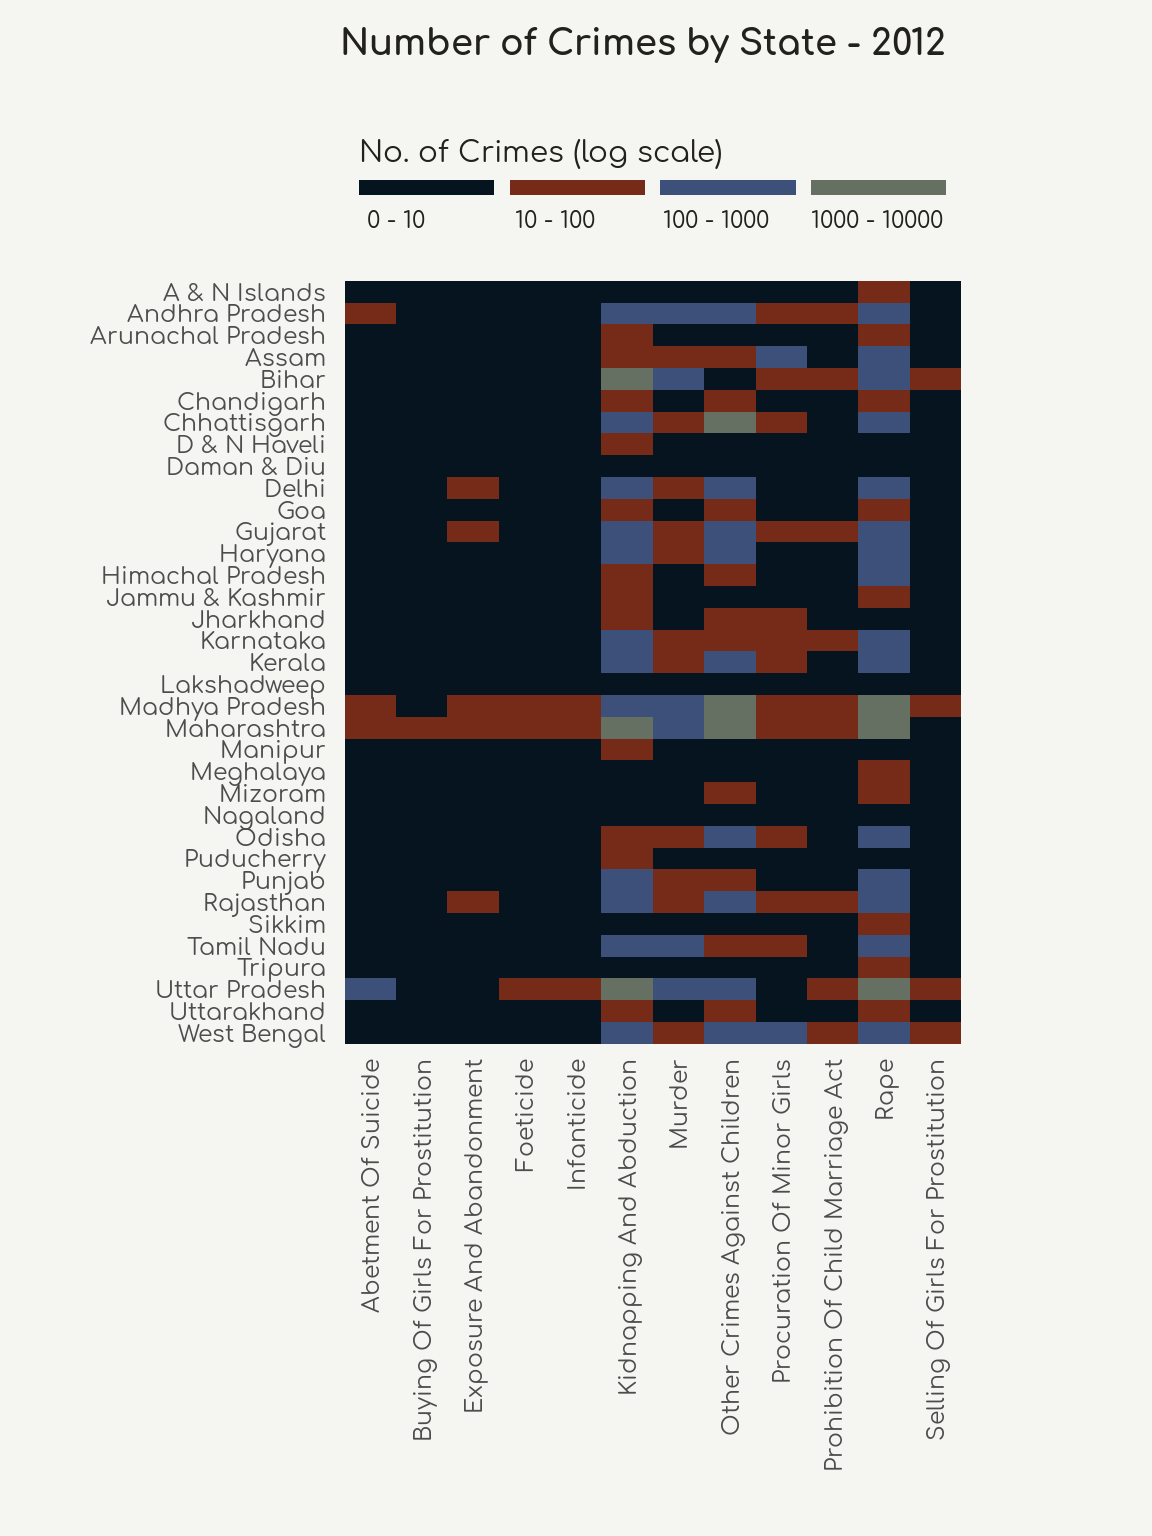
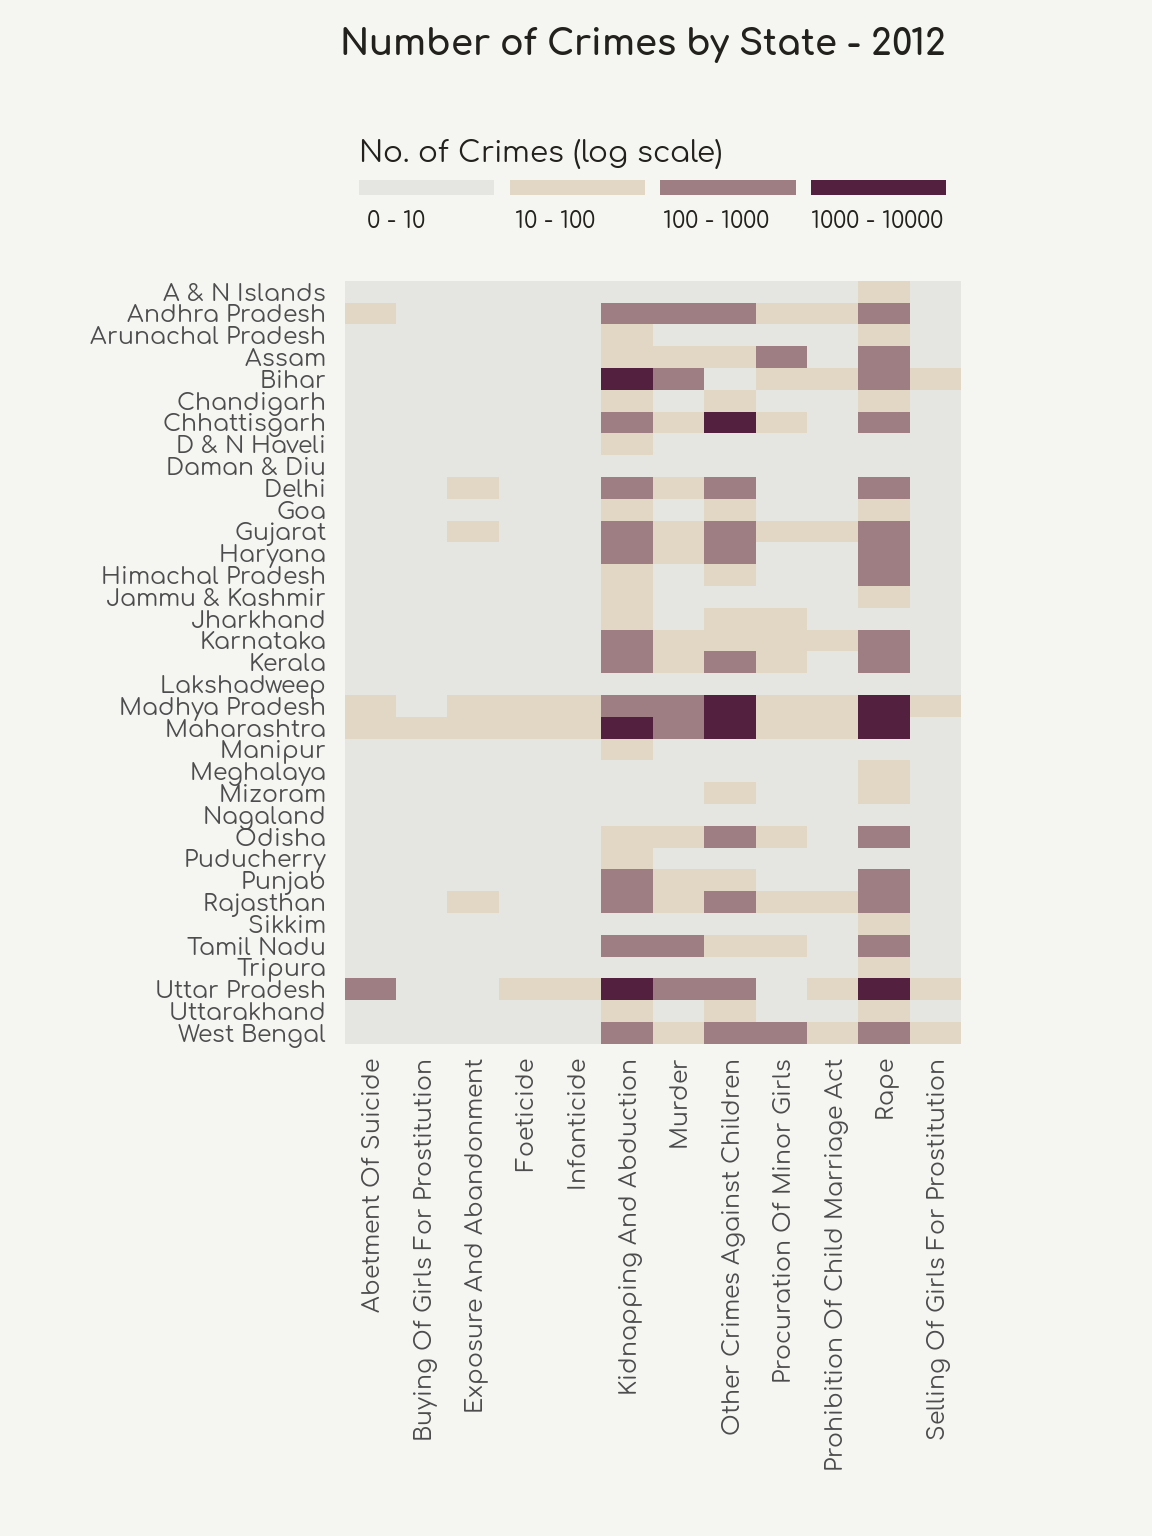
edit colorscheme of level plot

Changed region(s): [[0.2812, 0.1562, 0.8438, 0.6875], [0.3125, 0.0938, 0.8125, 0.125]]

diff --git a/content/blog/2018-02-22-crime-against-children-in-india.html b/content/blog/2018-02-22-crime-against-children-in-india.html
@@ -249,7 +249,11 @@ df %&gt;%
 <div id="levelplot" class="section level4">
 <h4>Levelplot</h4>
 <p>The next question I have is <em>what crimes are most significant in each state?</em> A heatmap (or levelplot) might be the best way to visualize this. This also allows us to visualize the most prevalent crimes throughout India.</p>
-<pre class="r"><code>level_data &lt;- df %&gt;%
+<pre class="r"><code># Set up color palette and binned counts
+pal = c(&quot;#E2D7C5&quot;,&quot;#C6B1A9&quot;,&quot;#9E7D83&quot;,&quot;#7A4F61&quot;,&quot;#54203F&quot;)
+pal2 = c(&quot;#e5e5e2&quot;,&quot;#E2D7C5&quot;,&quot;#9E7D83&quot;,&quot;#54203F&quot;)
+
+level_data &lt;- df %&gt;%
   filter(year == &#39;2012&#39;, crime_head != &quot;Total Crimes Against Children&quot;) %&gt;%
   mutate(crime_head = str_remove(crime_head, &quot; Of Children&quot;))
 
@@ -271,7 +275,7 @@ level_data %&gt;%
           plot.title = element_text(hjust = 0, face = &quot;bold&quot;),
           plot.margin = margin(10,70,10,20),
           legend.position = &quot;top&quot;) +
-  scale_fill_manual(values = ghibli_palettes$MononokeMedium, name = &quot;No. of Crimes (log scale)&quot;,
+  scale_fill_manual(values = pal2, name = &quot;No. of Crimes (log scale)&quot;,
                     guide = guide_legend(keyheight = unit(2, units = &quot;mm&quot;), 
                                          keywidth = unit(18, units = &quot;mm&quot;), 
                                          title.position = &quot;top&quot;, label.position = &quot;bottom&quot;,
@@ -415,9 +419,6 @@ total_by_state_all &lt;- merge(total_by_state_all, growth.tbl, by=&quot;state&qu
 merge_tbl_01_12 &lt;- merge(states.shp.f, total_by_state_all, by=&quot;id&quot;)
 final.plt.01_12 &lt;- merge_tbl_01_12[order(merge_tbl_01_12$order),]
 final.plt.01_12$year &lt;- parse_date_time(final.plt.01_12$year,&quot;%Y&quot;)
-
-# Set up color palette and binned counts
-pal = c(&quot;#E2D7C5&quot;,&quot;#C6B1A9&quot;,&quot;#9E7D83&quot;,&quot;#7A4F61&quot;,&quot;#54203F&quot;)
 
 label_start &lt;- c(seq(0,10000,2000))
 label_end &lt;- c(seq(2000,12000,2000))
